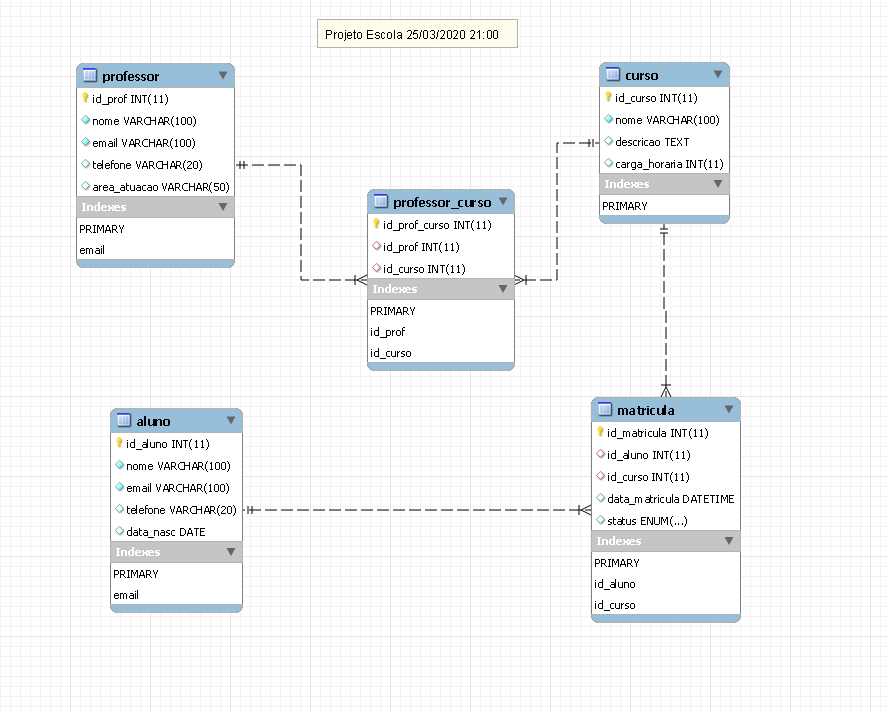
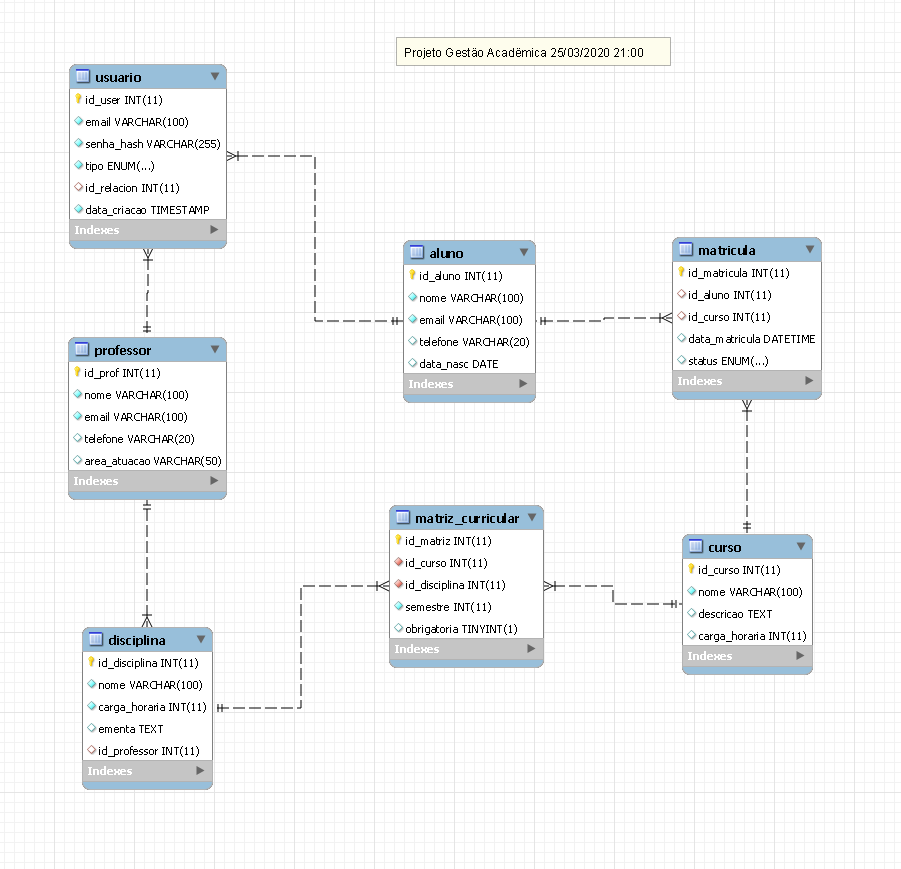
Gestão Acadêmica

diff --git a/README.md b/README.md
@@ -1,4 +1,4 @@
-# Projeto Escola UNIFOR - Hélio Marques
+# Projeto Gestão Acadêmica UNIFOR - Hélio Marques
 
  Desenvolver uma aplicação web responsiva para administrar alunos, professores e cursos. 
 
@@ -76,3 +76,99 @@
 		FOREIGN KEY (id_curso) REFERENCES curso(id_curso)
 	);
 
+	-- Tabela USUÁRIO 
+	CREATE TABLE IF NOT EXISTS usuario (
+		id_user INT AUTO_INCREMENT PRIMARY KEY,
+		email VARCHAR(100) UNIQUE NOT NULL,
+		senha_hash VARCHAR(255) NOT NULL,  -- Armazenar senha criptografada (ex: bcrypt)
+		tipo ENUM('admin', 'coordenador', 'professor', 'aluno') NOT NULL,
+		id_relacion INT NULL,  -- Opcional: ligação com ID de aluno/professor
+		data_criacao TIMESTAMP DEFAULT CURRENT_TIMESTAMP,
+		FOREIGN KEY (id_relacion) REFERENCES aluno(id_aluno) ON DELETE CASCADE,
+		FOREIGN KEY (id_relacion) REFERENCES professor(id_prof) ON DELETE CASCADE
+	);
+
+	-- Mantendo as tabelas existentes (aluno, curso, professor, matricula, usuario)
+	-- Adicionando as novas estruturas:
+
+	-- Tabela DISCIPLINA (nova)
+	CREATE TABLE IF NOT EXISTS disciplina (
+		id_disciplina INT AUTO_INCREMENT PRIMARY KEY,
+		nome VARCHAR(100) NOT NULL,
+		carga_horaria INT NOT NULL,
+		ementa TEXT,
+		id_professor INT,  -- Professor responsável pela disciplina
+		FOREIGN KEY (id_professor) REFERENCES professor(id_prof)
+	);
+
+	-- Tabela MATRIZ_CURRICULAR (nova) - Relaciona Curso com Disciplinas por semestre
+	CREATE TABLE IF NOT EXISTS matriz_curricular (
+		id_matriz INT AUTO_INCREMENT PRIMARY KEY,
+		id_curso INT NOT NULL,
+		id_disciplina INT NOT NULL,
+		semestre INT NOT NULL,  -- 1, 2, 3... para ordenação
+		obrigatoria BOOLEAN DEFAULT TRUE,
+		FOREIGN KEY (id_curso) REFERENCES curso(id_curso),
+		FOREIGN KEY (id_disciplina) REFERENCES disciplina(id_disciplina)
+	);
+
+	-- Removendo a tabela professor_curso (agora o relacionamento é via disciplina)
+	DROP TABLE IF EXISTS professor_curso;
+
+
+	INSERT INTO aluno (nome, email, telefone, data_nasc) 
+	VALUES ('João Silva', 'joao@email.com', '11999999999', '2000-05-15');
+
+	INSERT INTO curso (nome, descricao, carga_horaria) 
+	VALUES ('Programação Python', 'Curso introdutório de Python', 40);
+
+	-- Admin (sem vínculo com outras tabelas)
+	INSERT INTO usuario (email, senha_hash, tipo) 
+	VALUES ('admin@escola.com', '$2a$10$hashedpassword123', 'admin');
+
+	-- Aluno (vinculado a id_aluno = 1)
+	INSERT INTO usuario (email, senha_hash, tipo, id_relacion) 
+	VALUES ('joao@email.com', '$2a$10$hashedpassword456', 'aluno', 1);
+
+	-- Exemplo de relacionamento opcional:
+	-- Se id_relacion = 1 e tipo = 'aluno', vincula ao aluno de id_aluno = 1
+
+	-- Inserindo professores básicos
+	INSERT INTO professor (nome, email, telefone, area_atuacao)
+	VALUES 
+		('Carlos Silva', 'carlos.silva@escola.com', '(11) 9999-8888', 'Banco de Dados'),
+		('Ana Oliveira', 'ana.oliveira@escola.com', '(11) 7777-6666', 'Programação'),
+		('Marcos Souza', 'marcos.souza@escola.com', '(11) 5555-4444', 'Redes de Computadores');
+
+	-- Inserindo com todos os campos (incluindo campos opcionais)
+	INSERT INTO professor (nome, email, telefone, area_atuacao)
+	VALUES 
+		('Juliana Santos', 'juliana.santos@escola.com', '(11) 3333-2222', 'Inteligência Artificial'),
+		('Roberto Ferreira', 'roberto.ferreira@escola.com', NULL, 'Matemática Aplicada');  -- Telefone opcional
+
+	-- Inserindo vinculado a um usuário (se id_relacion estiver configurado)
+	-- Primeiro insere o usuário:
+	INSERT INTO usuario (email, senha_hash, tipo, id_relacion)
+	VALUES 
+		('carlos.silva@escola.com', '$2a$10$hashedpassword123', 'professor', 1);  -- id_relacion = id_prof
+
+	-- Depois atualiza o professor com o id_user (opcional):
+	UPDATE professor SET id_user = 1 WHERE id_prof = 1;
+
+	-- Cadastrando uma disciplina com professor
+	INSERT INTO disciplina (nome, carga_horaria, ementa, id_professor)
+	VALUES ('Banco de Dados', 60, 'Fundamentos de SQL', 1);
+	INSERT INTO disciplina (nome, carga_horaria, ementa, id_professor)
+	VALUES ('Java', 60, 'Fundamentos de SQL', 1);
+
+	-- Adicionando disciplina à matriz do curso de ADS (id_curso=1)
+	INSERT INTO matriz_curricular (id_curso, id_disciplina, semestre)
+	VALUES (1, 2, 3);  -- 3º semestre
+
+	-- Consultando a matriz de um curso
+	SELECT d.nome, p.nome AS professor, m.semestre
+	FROM matriz_curricular m
+	JOIN disciplina d ON m.id_disciplina = d.id_disciplina
+	JOIN professor p ON d.id_professor = p.id_prof
+	WHERE m.id_curso = 1
+	ORDER BY m.semestre;
